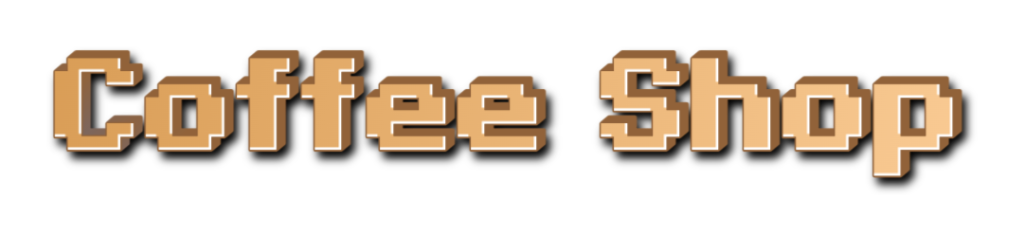
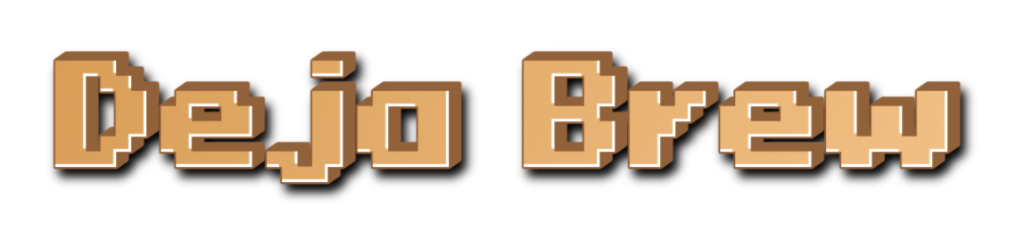
changing to deja brew

diff --git a/src/pages/Landing.tsx b/src/pages/Landing.tsx
@@ -17,7 +17,7 @@ function Landing() {
     <div style={{ backgroundColor: '#472200' }} className="min-h-screen flex flex-col 
                     items-center justify-center overflow-x-hidden"
     >
-      <h1 style={{ fontFamily: "'Press Start 2P', cursive" }} className="text-white text-xl font-bold">Welcome To Your Favourite</h1>
+      <h1 style={{ fontFamily: "'Press Start 2P', cursive" }} className="text-white text-l font-bold">Welcome To Your Favourite Coffee Shop</h1>
       <img 
           src={coffeeShopImage} 
           alt="Coffee Shop Logo" 

diff --git a/src/pages/Login.tsx b/src/pages/Login.tsx
@@ -78,6 +78,7 @@ function Login({ }) {
             id="outlined-basic"
             label="Password"
             variant="outlined"
+            type="password"
             value={password}
             onChange={e => setPassword(e.target.value)}
           />
